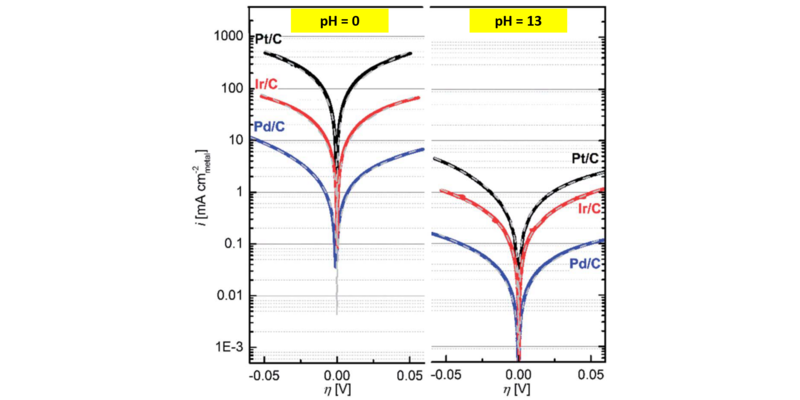
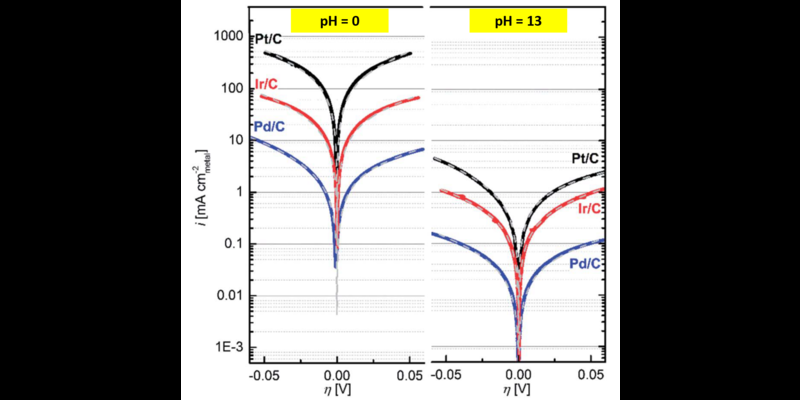
bugfix

diff --git a/assets/togit.py b/assets/togit.py
@@ -4,7 +4,8 @@ if len(sys.argv) > 2:
     infile = sys.argv[1]
     cmd += infile + " "
     cmd += "-resize 800x400 " 
-    cmd += "-background none " 
+    #cmd += "-background none " 
+    cmd += "-background 'rgb(255,255,255)'" 
     cmd += "-compose Copy "
     cmd += "-gravity center "
     cmd += "-extent 800x400 "
